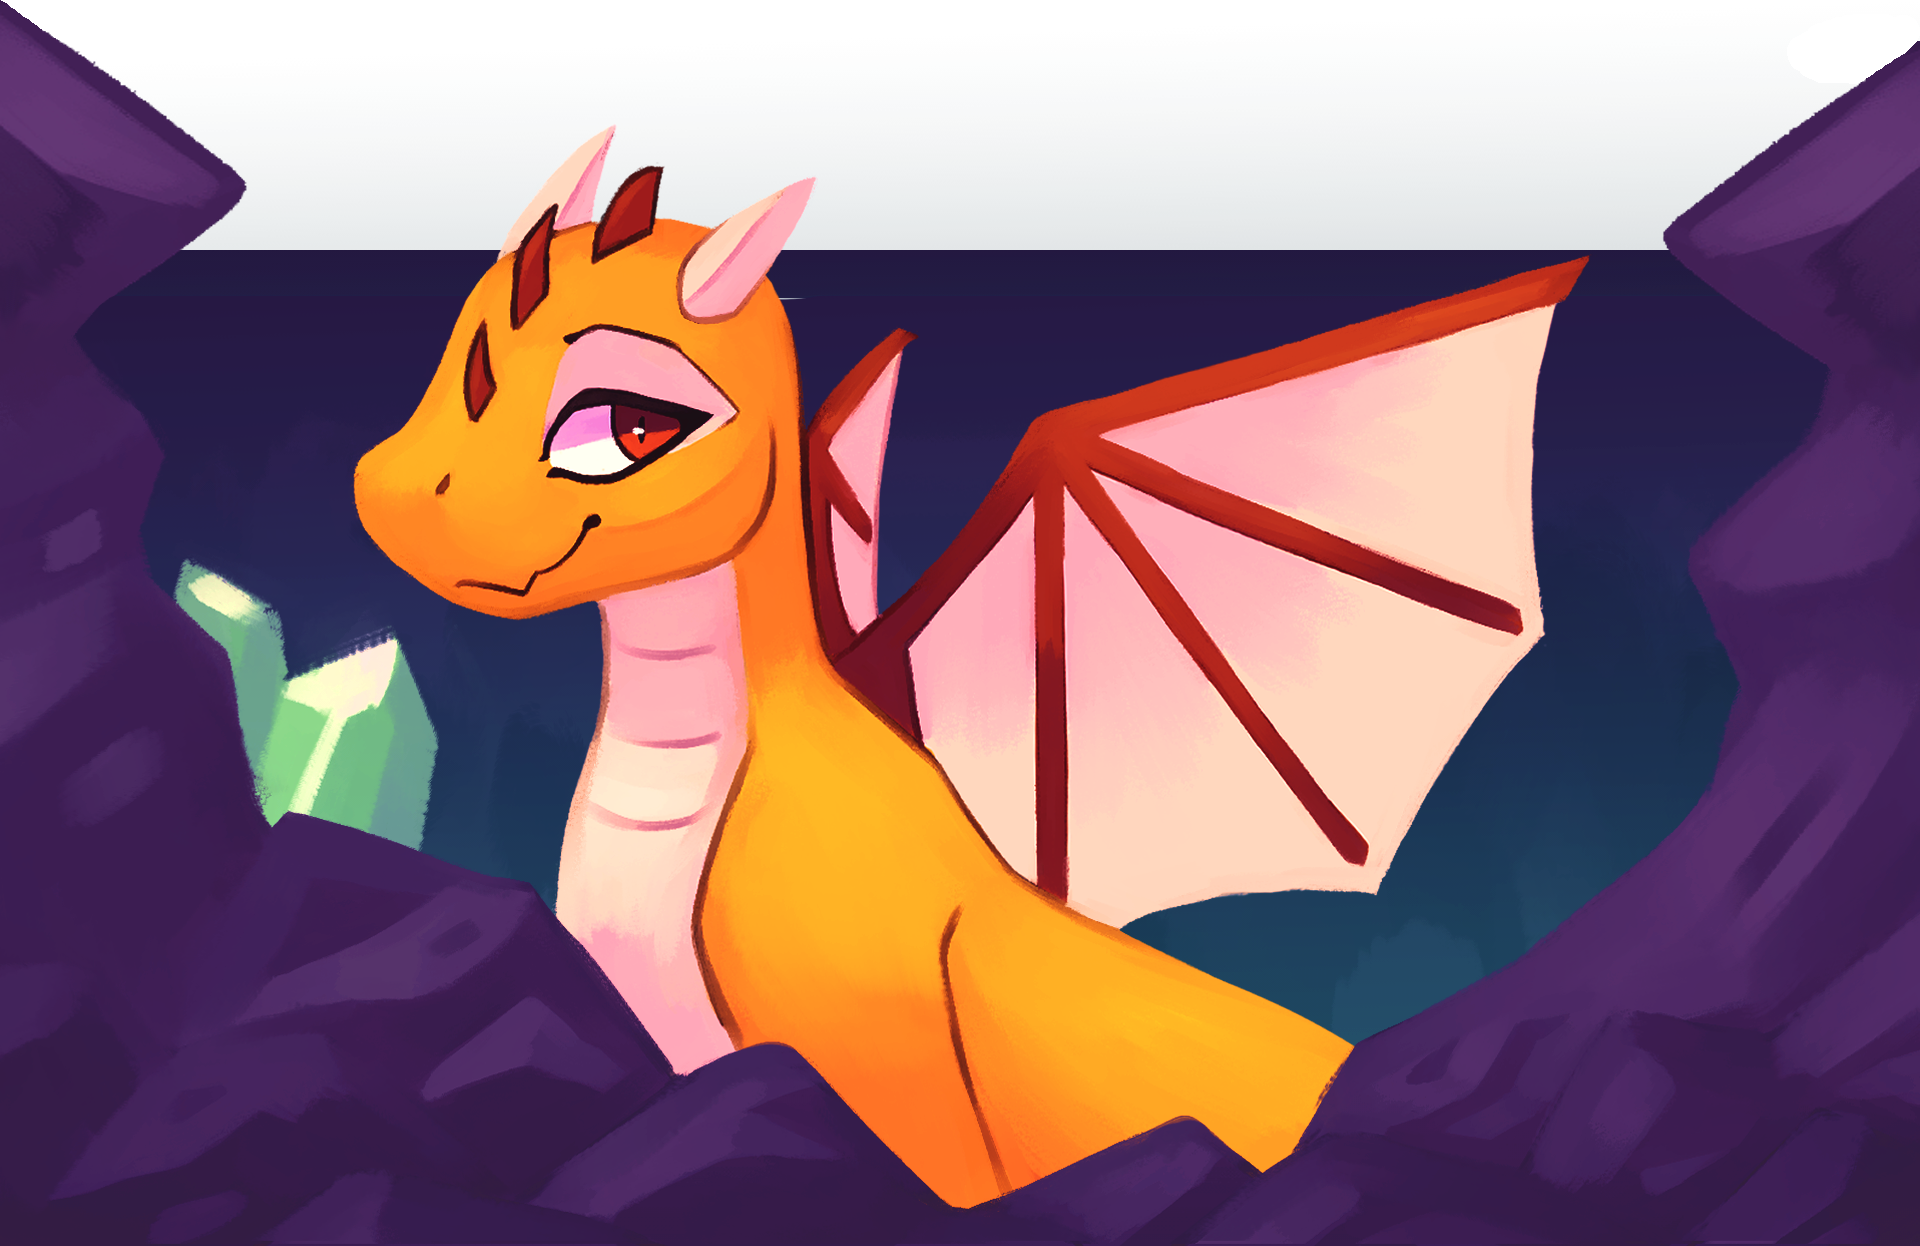
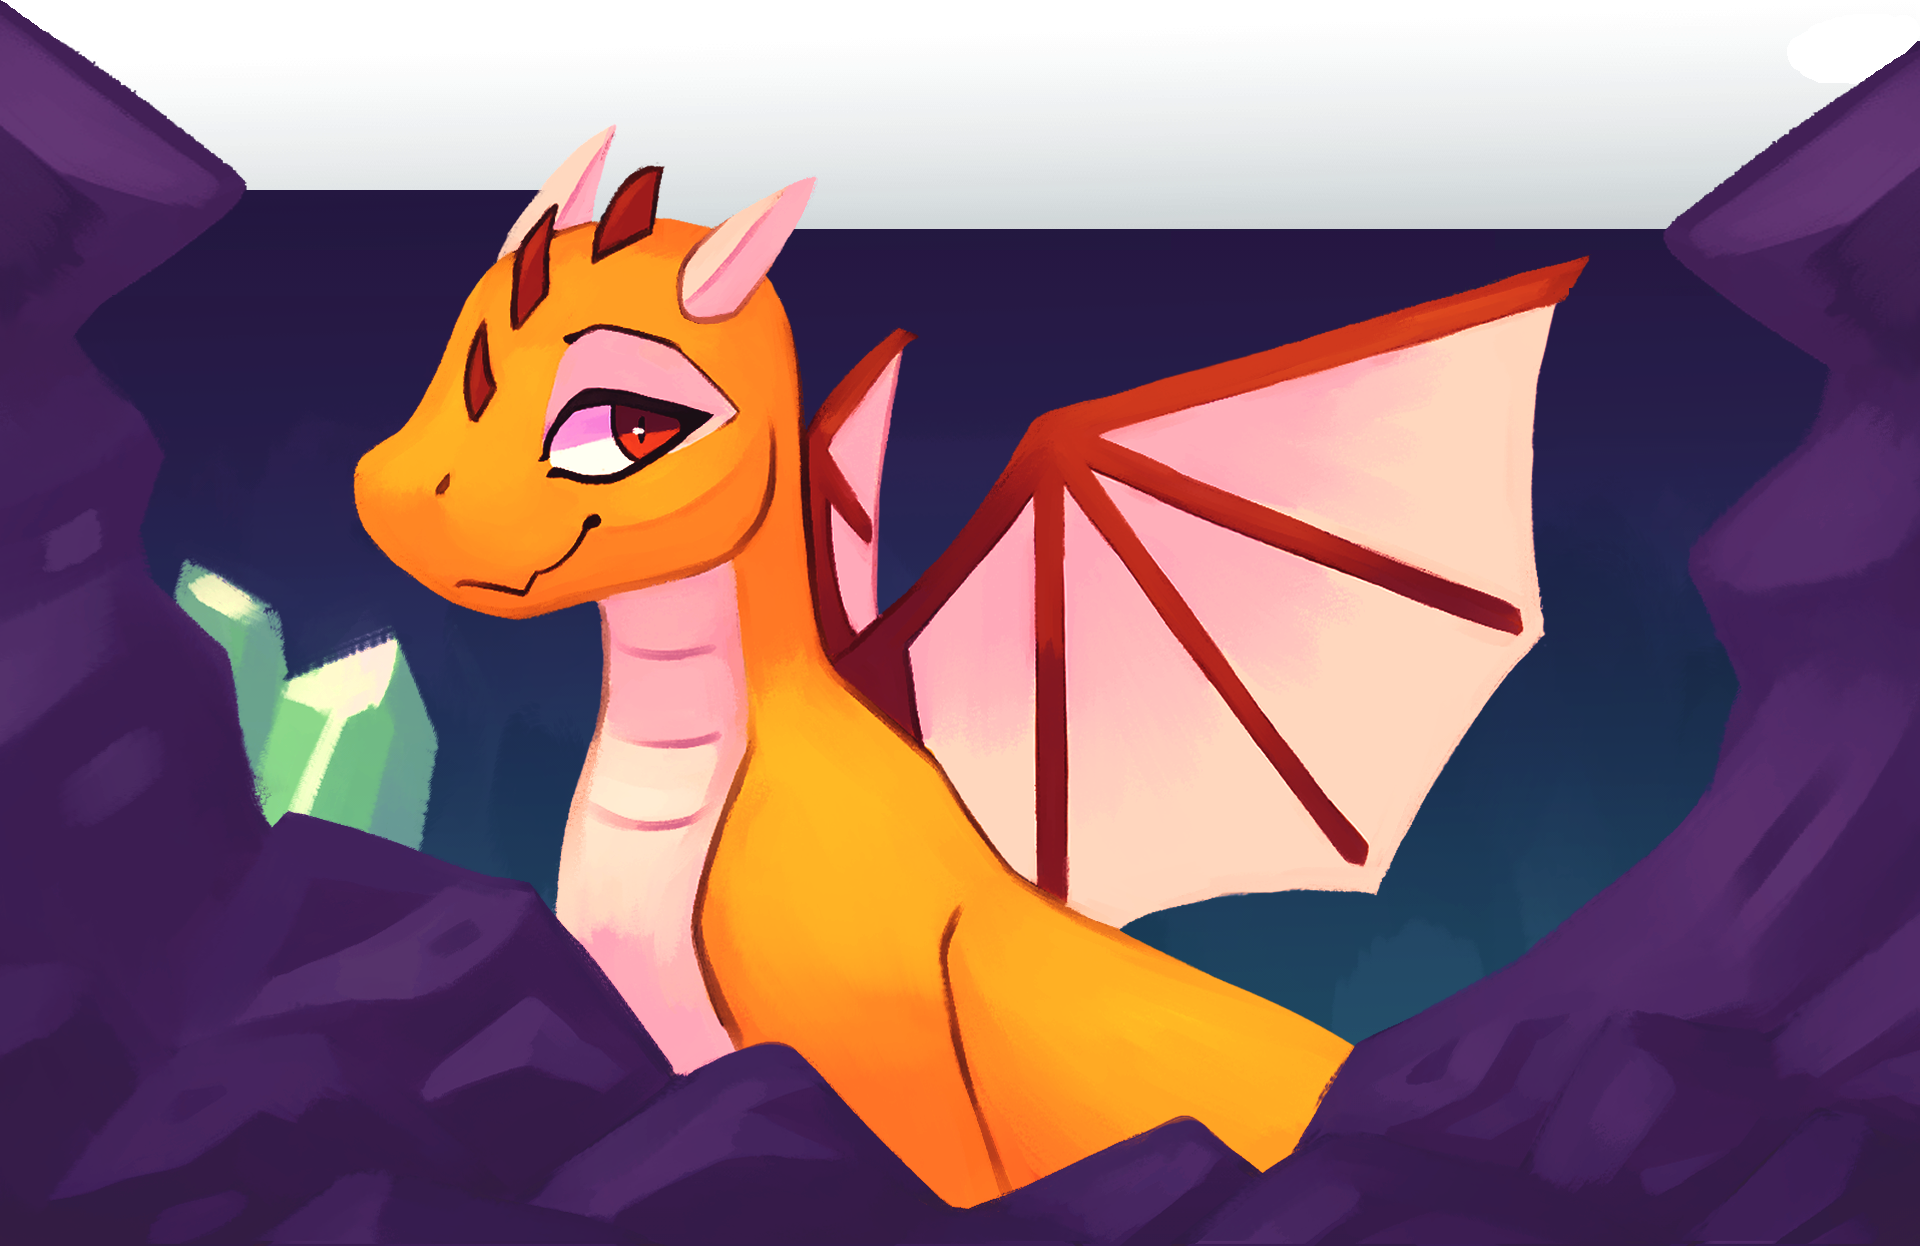
footer background

Changed region(s): [[0.4062, 0.183, 0.875, 0.2135], [0.0938, 0.1525, 0.2812, 0.2135]]

diff --git a/style.css b/style.css
@@ -19,6 +19,7 @@ body, button {
 }
 p{
   margin: 0px 10px;
+  font-size: 20px;
 }
 @media only screen and (max-width: 700px){
   h1 {
@@ -112,13 +113,30 @@ p{
 		transform: translate(-50%, -60px);
 	}
 }
-footer{
-	height: 70px;
-	background-color: #C0C0C0;
+footer {
+  width: 100%;
+	height: 57.45vw;
 	display: flex;
-	align-items:center;
-	padding: 0px 50px;
-	
+	align-items: flex-end;
+	padding: 30px 40px;
+  position: relative;
+  z-index: 50;
+  box-sizing: border-box;
+}
+footer::before {
+  content: ' ';
+  position: absolute;
+  bottom: 0;
+  left: 0;
+  width: 100%;
+  height: 71.8vw;
+  background-image: url('/images/cave_background/bottom.png');
+  background-position: bottom;
+  background-size: cover;
+}
+footer > .link {
+  z-index: 1;
+  color: white;
 }
 #countdown{
 	font-size: 50px;
@@ -139,15 +157,15 @@ footer{
 	background-color: rgba(255,255,255,0.8)
 }
 hr{
-	width: 100vw;
-    border: 0;
-    height: 2px;
-    background-image: linear-gradient(to right, rgba(0, 0, 0, 0), rgba(0, 0, 0, 0.75), rgba(0, 0, 0, 0));
+	width: 100%;
+  border: 0;
+  height: 2px;
+  background-image: linear-gradient(to right, #fff0, #ffffffb0, #fff0);
 	margin-bottom: 40px;
 	margin-top: 40px;
 }
 .section{
-	padding: 0px 10%;
+	padding: 0px 8px;
 }
 .row {
    text-align:center;
@@ -288,7 +306,7 @@ h4{
 }
 .bottom-links{
 	position: absolute;
-	right: 50px;
+	right: 40px;
 	flex-wrap: wrap;
 }
 @media only screen and (max-width: 600px){
@@ -344,16 +362,31 @@ h4{
   content: "\2796"; /* Unicode character for "minus" sign (-) */
 }
 
-.image-main{
-	height: calc(100vh - 70px);
+.image-main {
   width: 100%!important;
   object-fit: cover;
   object-position: 50% 50%;
-  filter: blur(3px);
 }
 .section-main{
 	height: calc(100vh - 70px);
   width: 100vw;
+}
+.header-text-container {
+  position: absolute;
+  bottom: 10vw;
+  width: 100%;
+  transform: translateY(-50%);
+  padding: 0 15vw;
+  box-sizing: border-box;
+}
+.header-text-container h2 {
+  color: white;
+  font-size: clamp(36px, calc(10px + 4vw), 120px);
+  text-shadow: 0px 0px 10px #000;
+  margin: 0.4em 0;
+}
+.header-text-container p {
+  font-size: 24px;
 }
 .banner-text{
   position:absolute;
@@ -362,7 +395,7 @@ h4{
   color: white;
   font-size: 50px;
   left:50%;
-  top: calc(50% + 35px);
+  bottom: 15vw;
   transform: translate(-50%, -50%);
   width: calc(100% - 100px);
   padding: 0px 50px;
@@ -577,8 +610,9 @@ h3.sponsor-title{
 .logo{
 	margin-left: 20px;
 	max-height: 50px;
-	position: relative;
+	position: absolute;
 	top: 50%;
+  left: 0;
 	transform: translateY(-50%);
 	cursor: pointer;
 }
@@ -683,25 +717,34 @@ h3.sponsor-title{
     display: none;
   }
 }
-.wrapper.homepage-wrapper {
+center.main-header {
+  display: flex;
+  align-items: flex-end;
+  height: calc(80vh + 100vw);
+  min-height: 135vw;
+  max-height: 150vw;
   position: relative;
 }
-.wrapper.homepage-wrapper::before,
-.wrapper.homepage-wrapper::after {
+@media only screen and (max-width: 640px) {
+  center.main-header {
+    height: 200vh;
+  }
+}
+.main-content {
+  position: relative;
+  padding: 0 15vw;
+}
+.main-content::before {
   content: ' ';
-  width: 320px;
+  width: 100%;
   height: 100%;
   position: absolute;
   top: 0;
-  /* background-image: url(images/background.jpg); */
-  background-image: url('/images/cave_wall_tileable_left.png');
+  left: 0;
+  background-image: url('/images/cave_background/walls.png');
   background-repeat: repeat-y;
-  background-size: 320px;
+  background-size: 100%;
   z-index: -1;
-}
-.wrapper.homepage-wrapper::after {
-  right: 0;
-  background-image: url('/images/cave_wall_tileable_right.png');
 }
 .category-icon{
 	width: 100px;
